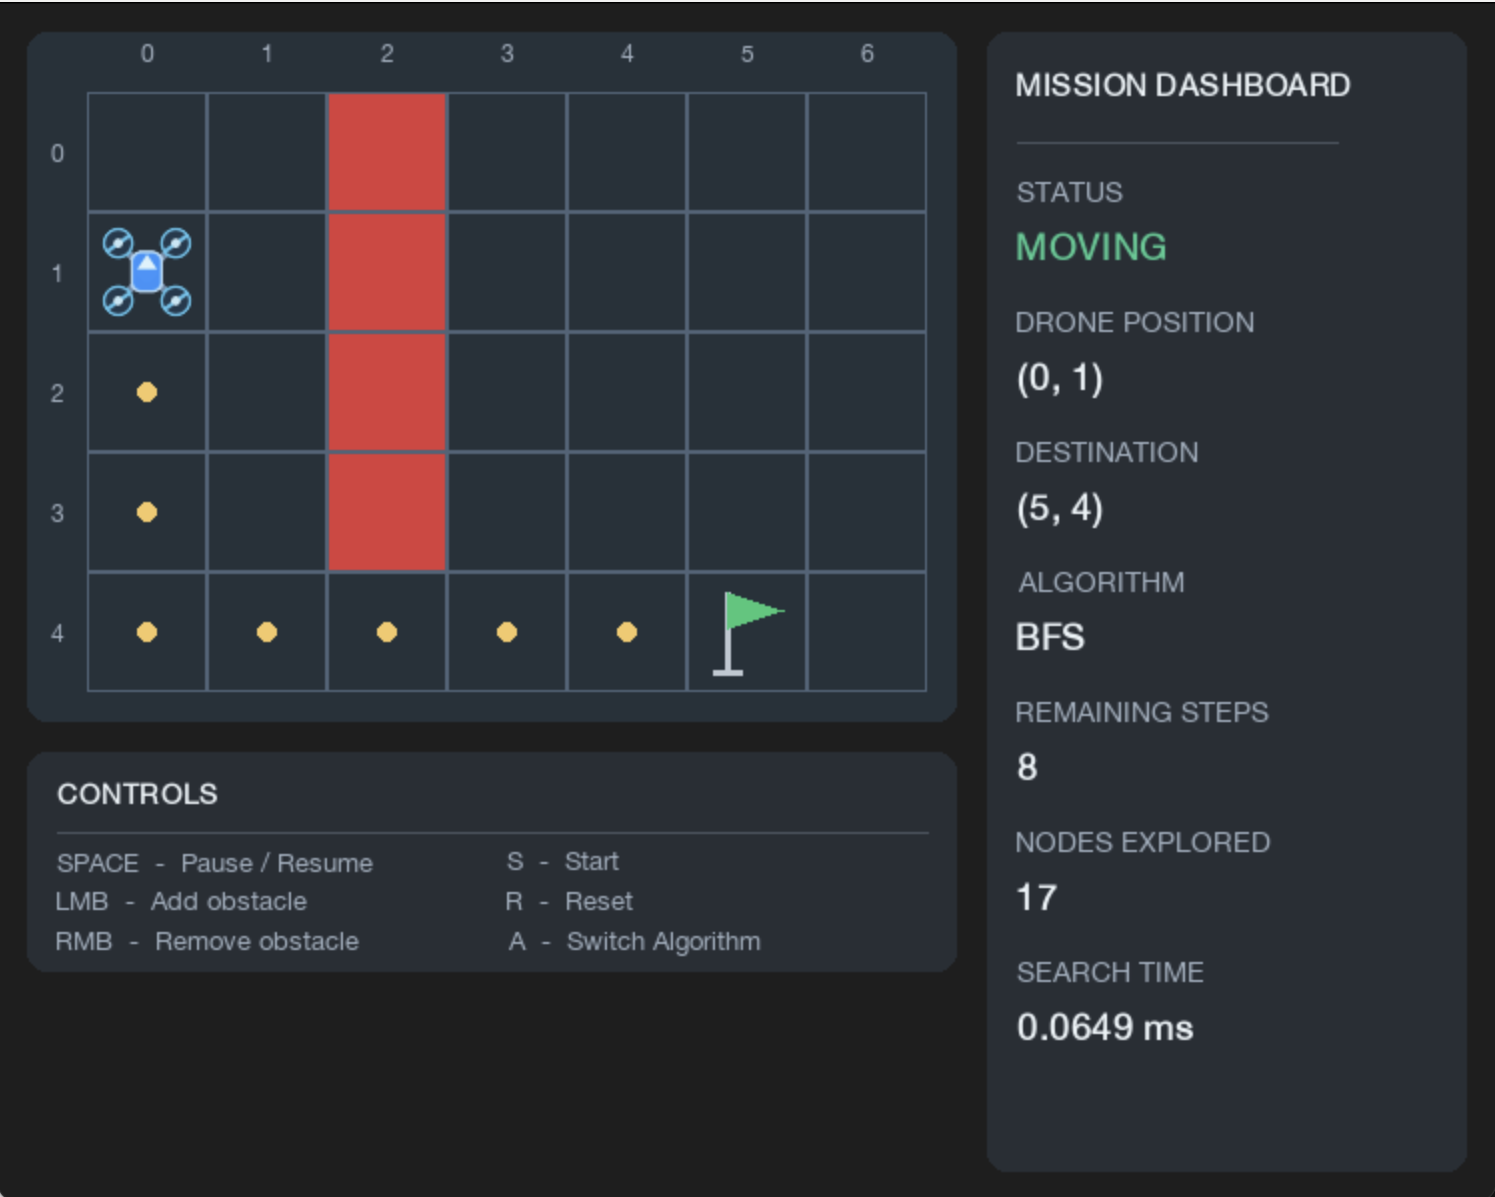
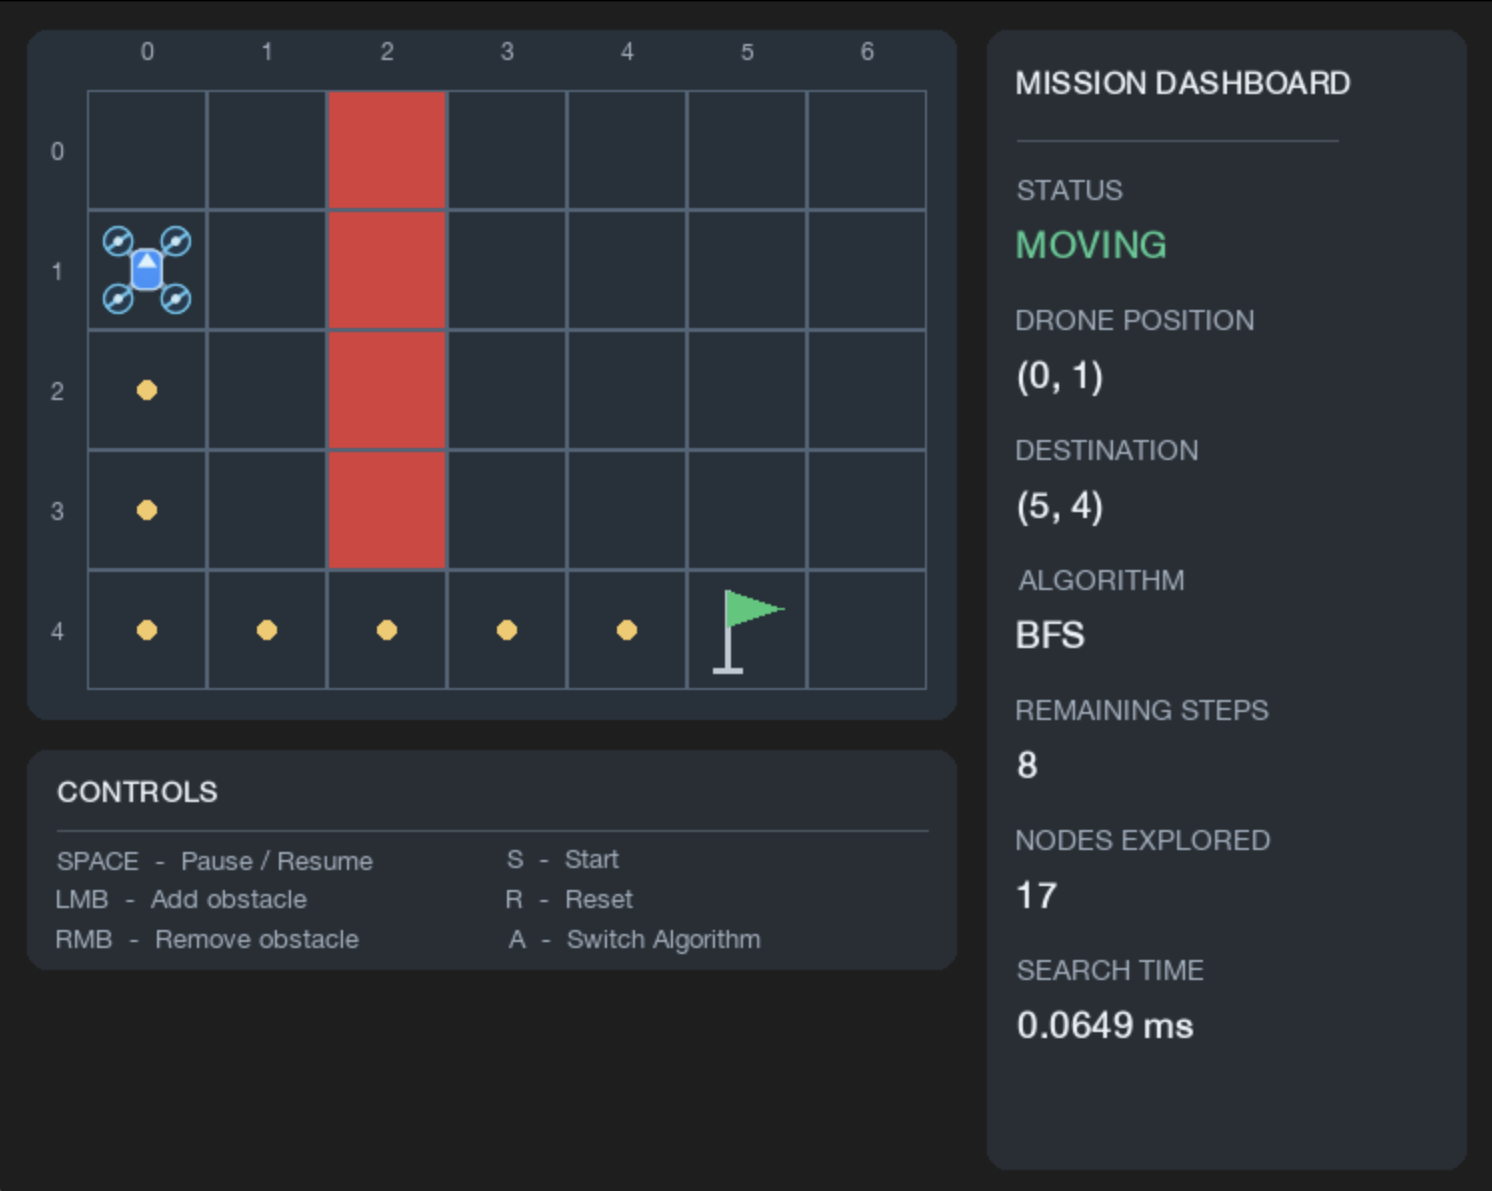
Moved screenshot to top of README.md

diff --git a/README.md b/README.md
@@ -1,5 +1,7 @@
 # Autonomous Drone Mission Simulator
 
+![Autonomous Drone Mission Simulator](screenshots/simulator.png)
+
 A Python-based, interactive 2D autonomous drone mission simulator featuring BFS and A* search algorithm pathfinding, dynamic obstacle avoidance, mission state management, and real-time performance monitoring.
 
 Built with Python and Pygame to explore autonomous navigation algorithms, modular software architecture, and event-driven simulation.
@@ -137,10 +139,6 @@ The test suite checks:
 - Unreachable destinations
 
 Both algorithms are checked for valid movement, correct endpoints, and expected path lengths.
-
-## Screenshots
-
-![Autonomous Drone Mission Simulator](screenshots/simulator.png)
 
 ## Future Improvements
 
